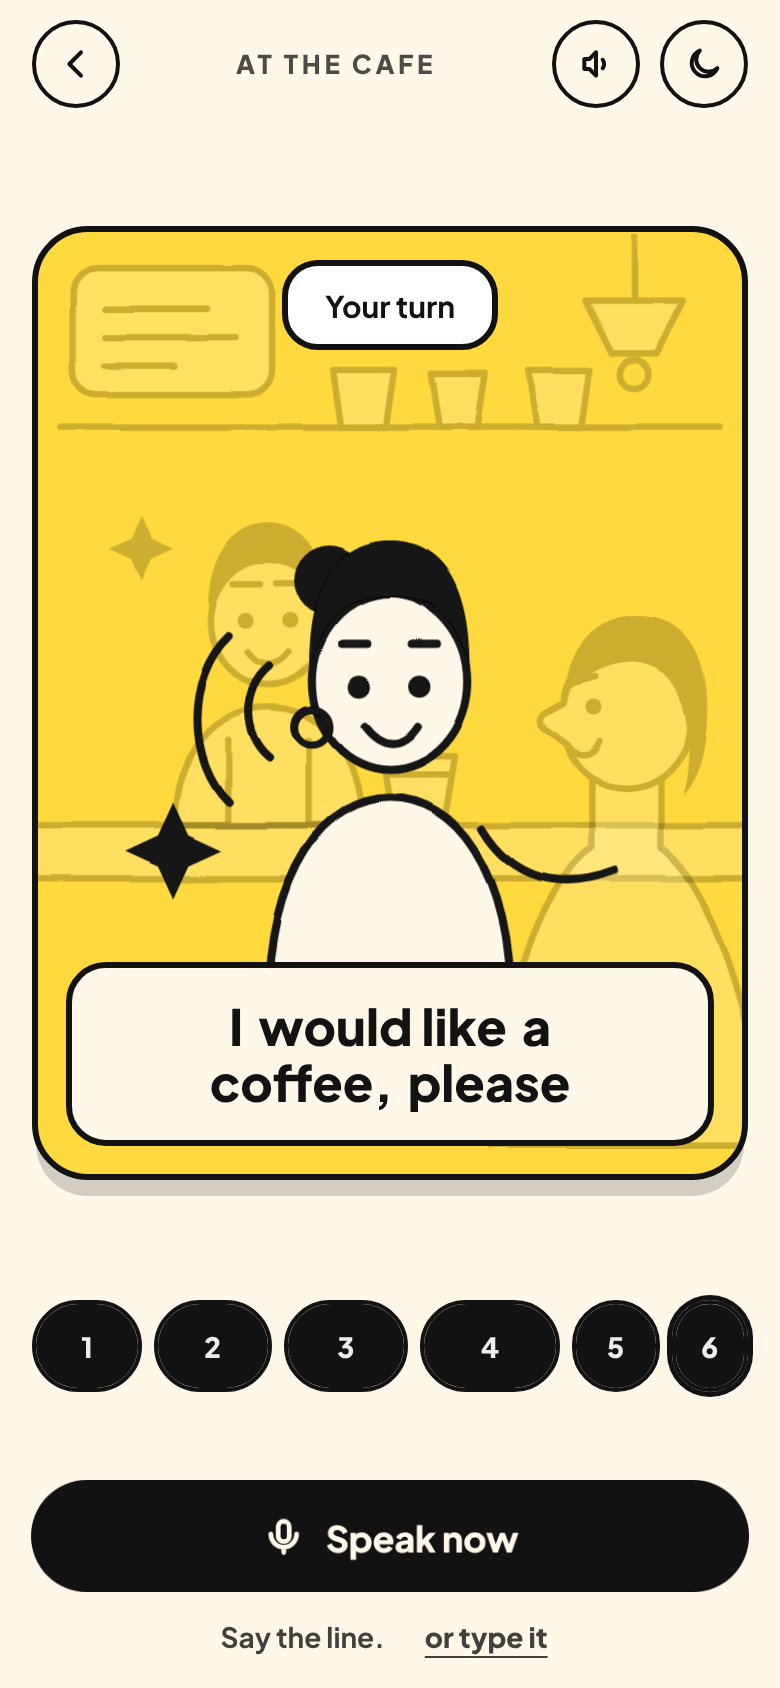
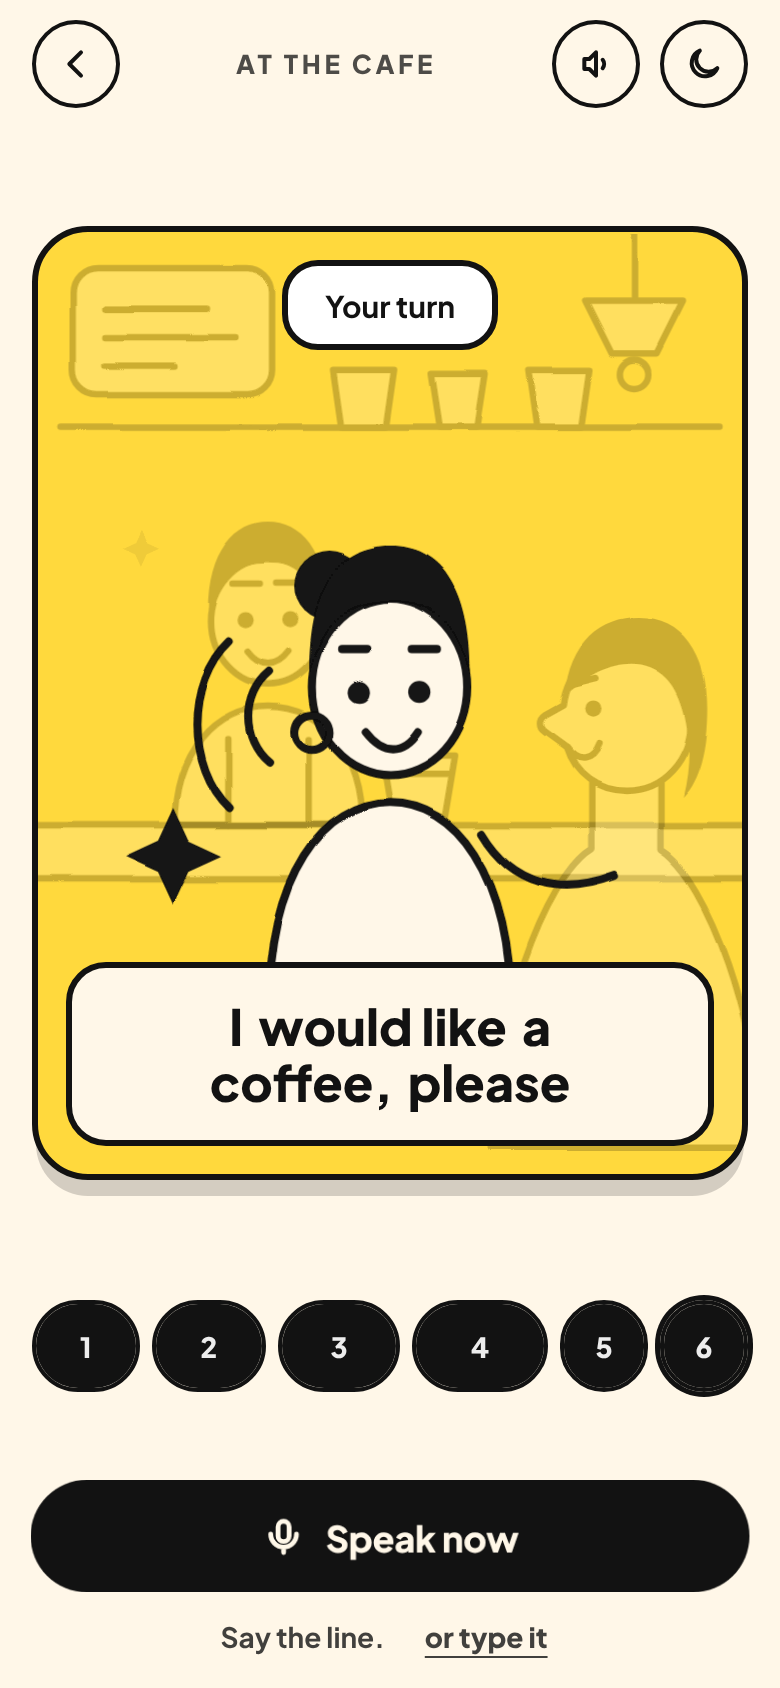
Prototype 2: polish the At the cafe explainer scene and interaction
Redraw the cafe in the approved outline style: Leo behind the counter,
you in the foreground, Maya stepping in for the politeness switch and
then turning to face the learner. The cafe softens while the coach
teaches so there is one thing to watch.

Characters now smile at rest and only open their mouth while they
speak. Fixes a reward star that survived a replay, a space keypress
that fired twice on a focused button, beat pills that fell under the
44px tap target, and makes the typed fallback one tap away after a
near miss.

Adds a Playwright fit and interaction check alongside the shot script.

diff --git a/docs/prototypes/02-explainer.html b/docs/prototypes/02-explainer.html
@@ -233,7 +233,7 @@ button{font:inherit;color:inherit;border:0;background:none;cursor:pointer}
 /* ---------- beat bar ---------- */
 .beats{display:flex;gap:6px;flex:0 0 auto;height:46px}
 .beat{
-  position:relative;flex:1 1 0;height:100%;
+  position:relative;flex:1 1 0;height:100%;min-width:44px;
   border:2.5px solid var(--on-page);border-radius:999px;
   overflow:hidden;background:transparent;
   transition:transform .28s var(--spring);
@@ -447,7 +447,7 @@ button{font:inherit;color:inherit;border:0;background:none;cursor:pointer}
   var BEATS = [
     {t:0,    d:4.2, say:null,                               label:"At the cafe"},
     {t:4.2,  d:4.6, say:"I want a coffee.",                 label:"You order"},
-    {t:8.8,  d:5.0, say:"Softer: I would like.",            label:"Say it softer"},
+    {t:8.8,  d:5.0, say:"Softer. I would like.",            label:"Say it softer"},
     {t:13.8, d:5.8, say:"I would like a coffee, please.",   label:"Word by word"},
     {t:19.6, d:3.0, say:"Of course. Here you are.",         label:"Leo answers"},
     {t:22.6, d:2.4, say:"Now you.",                         label:"Your turn"}
@@ -583,18 +583,21 @@ button{font:inherit;color:inherit;border:0;background:none;cursor:pointer}
   }
 
   /* ---------- the talk-like pause ---------- */
-  function finish(){
+  function finish(lead){
     playing = false; mode = "listen";
     stopSpeech();
+    typerow.hidden = true;
     setButton("mic", hasSpeech() ? "Speak now" : "Type it");
     mainBtn.classList.add("listening");
-    hint.innerHTML = hasSpeech()
-      ? 'Say the line. <button class="linkbtn" id="toType" type="button">or type it</button>'
-      : 'Type the line, then tap Check.';
-    var toType = document.getElementById("toType");
-    if (toType) toType.addEventListener("click", openType);
-    if (!hasSpeech()) openType();
-    show(heard, "Your turn");
+    if (hasSpeech()){
+      hint.innerHTML = (lead || "Say the line.") +
+        ' <button class="linkbtn" id="toType" type="button">or type it</button>';
+      document.getElementById("toType").addEventListener("click", openType);
+    } else {
+      hint.textContent = lead || "Type the line, then tap Check it.";
+      openType();
+    }
+    show(heard, lead ? "Once more" : "Your turn");
   }
 
   function clearListen(){
@@ -643,10 +646,7 @@ button{font:inherit;color:inherit;border:0;background:none;cursor:pointer}
       speak("You did it.", 1);
       setButton("again", "Play again");
     } else {
-      hint.innerHTML = 'Nearly. <button class="linkbtn" id="toType" type="button">Try again</button>';
-      document.getElementById("toType").addEventListener("click", function(){ finish(); });
-      setButton("mic", hasSpeech() ? "Speak now" : "Type it");
-      mode = "listen";
+      finish("Nearly. Say it again.");
       speak("Nearly. I would like a coffee, please.", 0.8);
     }
   }
